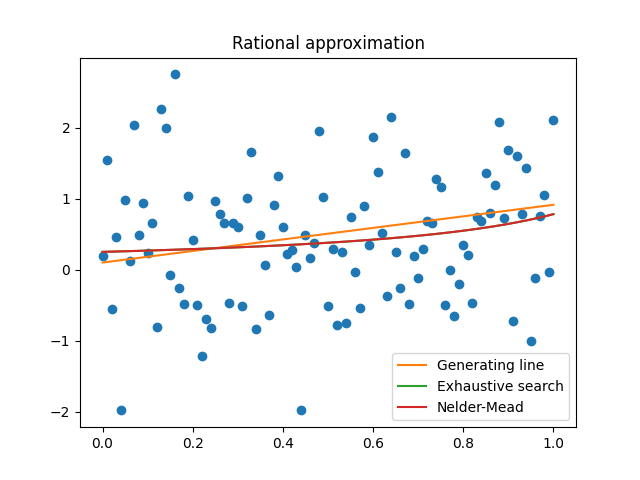
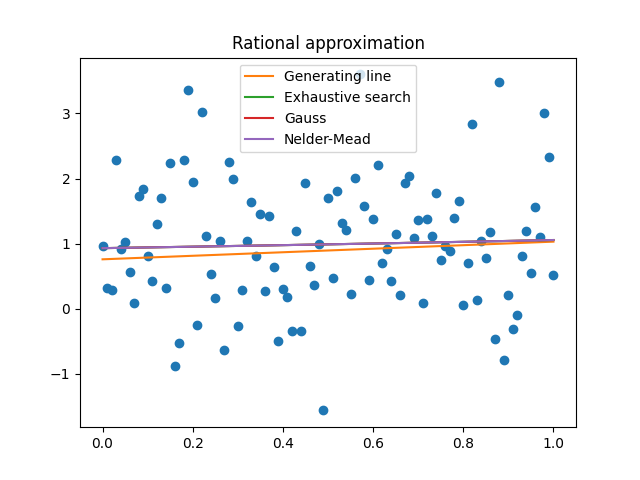
lab3 upd3: comparison with lab2

diff --git a/lab3/lab3.Algorithms for unconstrained nonlinear optimization. First- and second- order methods.py b/lab3/lab3.Algorithms for unconstrained nonlinear optimization. First- and second- order methods.py
@@ -96,12 +96,28 @@ def LSE_rat(*args):
     except:
         a = args[0]
         b = args[1]
-    xdata = [linear_approximant(x, a, b) for x in x_k]
     xdata = [rational_approximant(x, a, b) for x in x_k]
     return np.sum([(xdata[i] - y_k[i]) * (xdata[i] - y_k[i]) for i in range(len(y_k))])
 
 
-def Exhaustive_search(func, N):
+def LSE_lin_lm(*args):  # Least Squares Error
+    a = args[0][0]
+    b = args[0][1]
+    xdata = [linear_approximant(x, a, b) for x in x_k]
+    f = np.sum([(xdata[i] - y_k[i]) * (xdata[i] - y_k[i]) for i in range(len(y_k))])
+    return [f, f]
+
+
+def LSE_rat_lm(*args):
+    a = args[0][0]
+    b = args[0][1]
+    xdata = [linear_approximant(x, a, b) for x in x_k]
+    xdata = [rational_approximant(x, a, b) for x in x_k]
+    f = np.sum([(xdata[i] - y_k[i]) * (xdata[i] - y_k[i]) for i in range(len(y_k))])
+    return [f, f]
+
+
+def test_Exhaustive_search(func, N):
     a = np.linspace(0, 1, N + 1)
     b = np.linspace(0, 1, N + 1)
     a_best, b_best = None, None
@@ -118,7 +134,7 @@ def Exhaustive_search(func, N):
     return a_best, b_best, min_error, f_calc
 
 
-def Gauss(func, a0, b0, N, eps):
+def test_Gauss(func, a0, b0, N, eps):
     a, b = a0, b0
     a_grid = np.linspace(0, 1, N + 1)
     b_grid = np.linspace(0, 1, N + 1)
@@ -148,26 +164,21 @@ def Gauss(func, a0, b0, N, eps):
 
 
 def lab2_plot(func, approx, str, N, eps, alpha, beta, x_k, y_k):
-    # res1 = Exhaustive_search(func, N)
-    # res2 = Gauss(func, 0.5, 0.5, N, eps)
     res1 = scipy.optimize.brute(func, ranges=(slice(0, 1, 1/(N+1)), (slice(0, 1, 1/(N+1)))))
     res2 = scipy.optimize.minimize(func, [0.5, 0.5], method='CG', tol=eps)
     res3 = scipy.optimize.minimize(func, [0.5, 0.5], method='Nelder-Mead', tol=eps)
 
-    print(res1)
     print(f'{str}\nExhaustive search:\na={round(res1[0], 5)}, b={round(res1[1], 5)}, '
           f'f={round(func(res1[0],res1[1]), 5)}\niterations={(N+1)**2}\n')
     print(f'Gauss:\na={round(res2.x[0], 5)}, b={round(res2.x[1], 5)}, '
           f'f={round(res2.fun, 5)}\niterations={res2.nfev}\n')
-    # print(f'{str}\nExhaustive search:\na={round(res1[0],5)}, b={round(res1[1],5)}, f={round(res1[2],5)}\nf-calculations={res1[3]}\n')
-    # print(f'Gauss:\na={round(res2[0], 5)}, b={round(res2[1], 5)}, f={round(res2[2], 5)}\nf-calculations={res2[3]}\n')
     print(f'Nelder-Mead:\na={round(res3.x[0],5)}, b={round(res3.x[1],5)}, '
           f'f={round(res3.fun,5)}\niterations={res3.nfev}\n')
 
     plt.plot(x_k, y_k, 'o')
     plt.plot(x_k, [linear_approximant(x, alpha, beta) for x in x_k], label='Generating line')
     plt.plot(x_k, [approx(x, res1[0], res1[1]) for x in x_k], label='Exhaustive search')
-    # plt.plot(x_k, [approx(x, res2[0], res2[1]) for x in x_k], label='Gauss')
+    plt.plot(x_k, [approx(x, res2.x[0], res2.x[1]) for x in x_k], label='Gauss')
     plt.plot(x_k, [approx(x, res3.x[0], res3.x[1]) for x in x_k], label='Nelder-Mead')
     plt.title(str)
     plt.legend()
@@ -175,31 +186,33 @@ def lab2_plot(func, approx, str, N, eps, alpha, beta, x_k, y_k):
     plt.show()
 
 
-def lab3_plot(func, approx, str, N, eps, alpha, beta, x_k, y_k):
+
+def lab3_plot(func, func_lm, approx, str, N, eps, alpha, beta, x_k, y_k):
     res1 = scipy.optimize.minimize(func, x0=[0.5, 0.5], method='BFGS', tol=eps)
     res2 = scipy.optimize.minimize(func, x0=[0.5, 0.5], method='CG', tol=eps)
     res3 = scipy.optimize.minimize(func, x0=[0.5, 0.5], method='Newton-CG', jac=jacobian(func), tol=eps)
-    # res4 = scipy.optimize.curve_fit(approx, xdata=x_k, ydata=y_k, method='lm')
-    print(res1)
-    print(res2)
-    print(res3)
-    # print('Levenberg-Marquardt algorithm arguments: {:.6f}, {:.6f}'.format(res4[0], res4[1]))
-
-    print('Gradient descent i =', res1.nfev)
-    print('Conjugate gradient descent i =', res2.nfev)
-    print('Newton i =', res3.nfev)
-    # print('Levenberg-Marquardt i =', res4)
+    # res44 = scipy.optimize.curve_fit(approx, xdata=x_k, ydata=y_k, method='lm')
+    res4 = least_squares(func_lm, x0=[0.5, 0.5],  method='lm', gtol=eps, max_nfev=int(1e6))
+    print(f'{str}\nGradient descent:\na={round(res1.x[0], 7)}, b={round(res1.x[1], 7)}, '
+          f'f={round(res1.fun,7)}\niterations={res1.nfev}\n')
+    print(f'Conjugate gradient descent:\na={round(res2.x[0], 7)}, b={round(res2.x[1], 7)}, '
+          f'f={round(res2.fun,7)}\niterations={res2.nfev}\n')
+    print(f'Newton:\na={round(res3.x[0], 7)}, b={round(res3.x[1], 7)}, '
+          f'f={round(res3.fun,7)}\niterations={res3.nfev}\n')
+    print(f'Levenberg-Marquardt:\na={round(res4.x[0], 7)}, b={round(res4.x[1], 7)}, '
+          f'f={round(res4.fun[0],7)}\niterations={res4.nfev}\n')
 
     plt.plot(x_k, y_k, 'o')
     plt.plot(x_k, [linear_approximant(x, alpha, beta) for x in x_k], label='Generating line')
     plt.plot(x_k, [approx(x, res1.x[0], res1.x[1]) for x in x_k], label='Gradient descent')
     plt.plot(x_k, [approx(x, res2.x[0], res2.x[1]) for x in x_k], label='Conjugate gradient descent')
     plt.plot(x_k, [approx(x, res3.x[0], res3.x[1]) for x in x_k], label='Newton')
-    # plt.plot(x_k, [approx(x, res4[0], res4[1]) for x in x_k], label='Levenberg-Marquardt')
+    plt.plot(x_k, [approx(x, res4.x[0], res4.x[1]) for x in x_k], label='Levenberg-Marquardt')
+    # plt.plot(x_k, [approx(x, res44[0][0], res44[0][1]) for x in x_k], label='Levenberg-Marquardt v1')
     plt.title(str)
     plt.legend()
     plt.savefig(str + ' lab3')
-    # plt.show()
+    plt.show()
 
 
 N = 100
@@ -210,8 +223,9 @@ noise = np.random.normal(0, 1, N + 1)
 x_k = np.array([k / N for k in range(N + 1)])
 y_k = np.array([alpha * x_k[k] + beta + noise[k] for k in range(len(x_k))])
 
+
 lab2_plot(LSE_lin, linear_approximant, 'Linear approximation', N, eps, alpha, beta, x_k, y_k)
 lab2_plot(LSE_rat, rational_approximant, 'Rational approximation', N, eps, alpha, beta, x_k, y_k)
 
-# lab3_plot(LSE_lin, linear_approximant, 'Linear approximation', N, eps, alpha, beta, x_k, y_k)
-# lab3_plot(LSE_rat, rational_approximant, 'Rational approximation', N, eps, alpha, beta, x_k, y_k)
+lab3_plot(LSE_lin, LSE_lin_lm, linear_approximant, 'Linear approximation', N, eps, alpha, beta, x_k, y_k)
+lab3_plot(LSE_rat, LSE_rat_lm, rational_approximant, 'Rational approximation', N, eps, alpha, beta, x_k, y_k)
